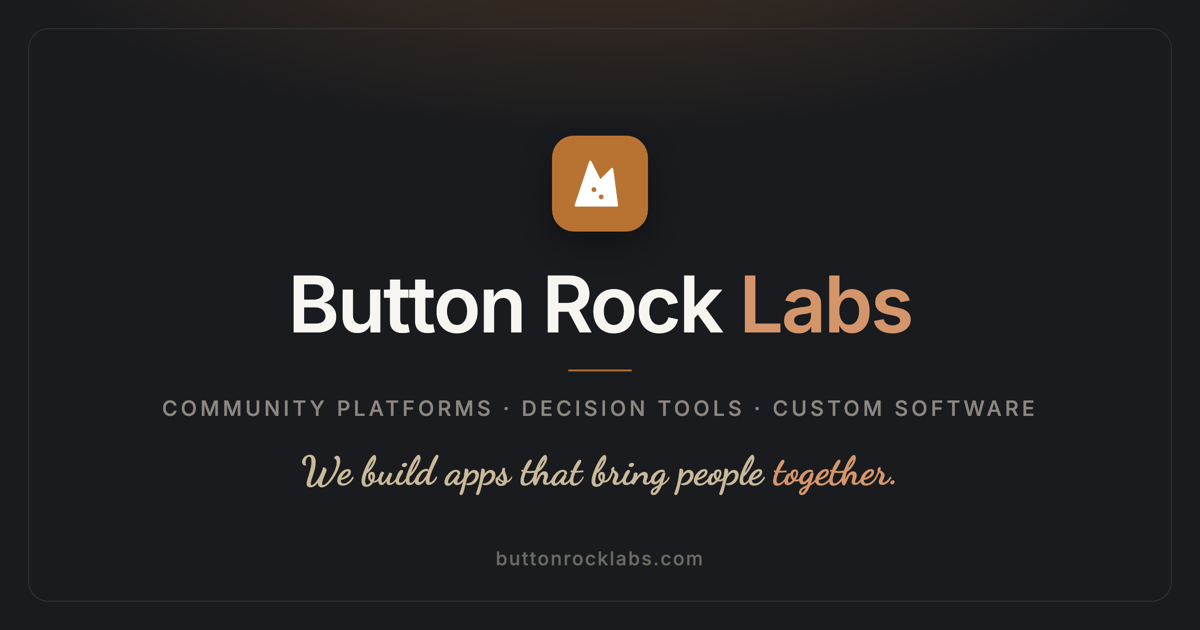
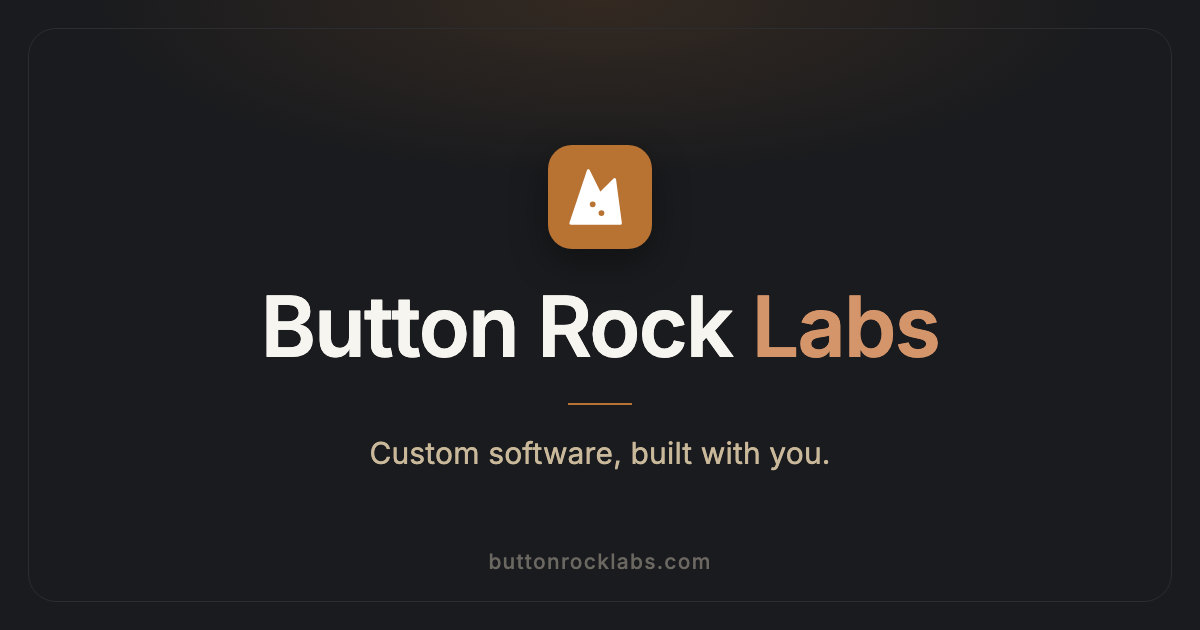
Link preview image: plain tagline, no cursive; cache-bust og-image URL (#61)

diff --git a/index.html b/index.html
@@ -9,16 +9,16 @@
     <meta property="og:description" content="Button Rock Labs is a Colorado product studio building community platforms, decision tools, and custom business software, where the value we create sets the price." />
     <meta property="og:type" content="website" />
     <meta property="og:url" content="https://buttonrocklabs.com" />
-    <meta property="og:image" content="https://buttonrocklabs.com/og-image.png" />
-    <meta property="og:image:secure_url" content="https://buttonrocklabs.com/og-image.png" />
+    <meta property="og:image" content="https://buttonrocklabs.com/og-image.png?v=2" />
+    <meta property="og:image:secure_url" content="https://buttonrocklabs.com/og-image.png?v=2" />
     <meta property="og:image:type" content="image/png" />
     <meta property="og:image:width" content="1200" />
     <meta property="og:image:height" content="630" />
-    <meta property="og:image:alt" content="Button Rock Labs: we build apps that bring people together." />
+    <meta property="og:image:alt" content="Button Rock Labs: custom software, built with you." />
     <meta name="twitter:card" content="summary_large_image" />
     <meta name="twitter:title" content="Button Rock Labs" />
     <meta name="twitter:description" content="Button Rock Labs is a Colorado product studio building community platforms, decision tools, and custom business software, where the value we create sets the price." />
-    <meta name="twitter:image" content="https://buttonrocklabs.com/og-image.png" />
+    <meta name="twitter:image" content="https://buttonrocklabs.com/og-image.png?v=2" />
     <link rel="icon" type="image/svg+xml" href="/favicon.svg" />
     <link rel="preconnect" href="https://fonts.googleapis.com">
     <link rel="preconnect" href="https://fonts.gstatic.com" crossorigin>
